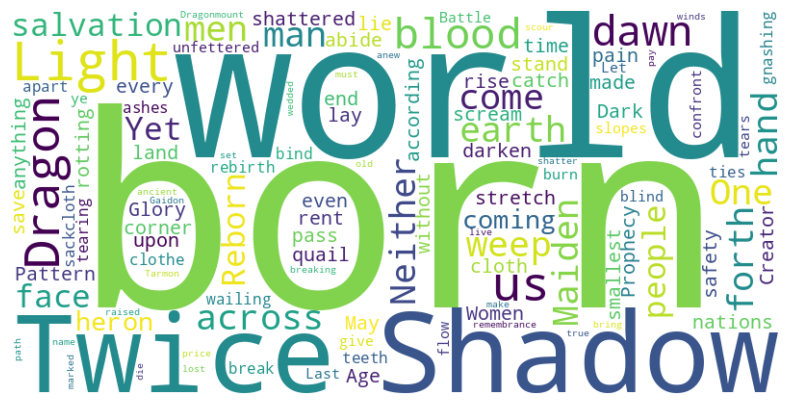
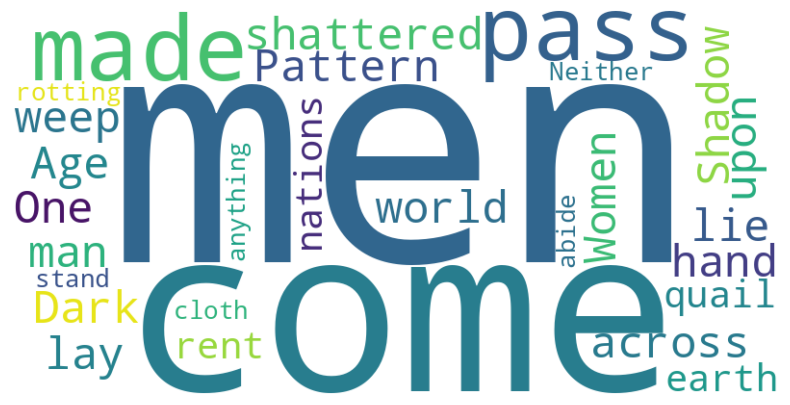
Working on author analysis / moving wordcloud from saved png to encoded message to backend

diff --git a/client/src/components/authorAnalysis/AuthorAnalysis.jsx b/client/src/components/authorAnalysis/AuthorAnalysis.jsx
@@ -3,13 +3,14 @@ import styled from "styled-components";
 import Plot from 'react-plotly.js';
 
 import { ThemeContext } from "../../context/ThemeContext.jsx";
-import { StyledFlexboxContainer, StyledMainButton, StyledTextEntryFlexbox, StyledTextBox, StyledTextField, StyledIcon, StyledFlexbox, StyledDataBox, StyledPlotContainer, StyledIFrame, StyledWordcloud, StyledBodyText } from './AuthorAnalysis.styles';
+import { StyledFlexboxContainer, StyledMainButton, StyledTextEntryFlexbox, StyledTextBox, StyledTextField, StyledIcon, StyledFlexbox, StyledDataBox, StyledPlotContainer, StyledIFrame, StyledWordcloud, StyledTopicButton, StyledBodyText } from './AuthorAnalysis.styles';
 
 function AuthorAnalysis({ transition }) {
   const { theme } = useContext(ThemeContext);
 
   const [expanded, setExpanded] = useState(false);
-  const [showData, setShowData] = useState(true);
+  const [showData, setShowData] = useState(false);
+  const [showTopicGraph, setShowTopicGraph] = useState(false);
 
   const [predictionText, setPredictionText] = useState("");
   const [predictionData, setPredictionData] = useState({
@@ -75,6 +76,10 @@ function AuthorAnalysis({ transition }) {
   function handleChange(e) {
     setPredictionText(e.target.value);
   };
+
+  function toggleTopicGraph() {
+    setShowTopicGraph(prev => !prev);
+  }
 
   async function predict() {
     try {
@@ -142,6 +147,8 @@ function AuthorAnalysis({ transition }) {
             <br/>
             Flesch-Kincaid: {predictionData["metrics"]["fk_score"]}
             <br/>
+            Reading Level: {predictionData["metrics"]["fk_grade"]}
+            <br/>
             <br/>
             Tense: {predictionData["metrics"]["tense"]}
             <br/>
@@ -189,6 +196,11 @@ function AuthorAnalysis({ transition }) {
           />
         </StyledPlotContainer>
         <StyledWordcloud src={predictionData["wordcloud"]}/>
+        <StyledTopicButton theme={theme}>
+          <StyledBodyText>
+            Show Topic Graph
+          </StyledBodyText>
+        </StyledTopicButton>
       </StyledFlexbox>
     </StyledFlexboxContainer>
   )

diff --git a/client/src/components/authorAnalysis/AuthorAnalysis.styles.js b/client/src/components/authorAnalysis/AuthorAnalysis.styles.js
@@ -76,8 +76,8 @@ export const StyledTextBox = styled.div`
   max-width: ${({$expanded}) => $expanded ? "100%" : "0%"};
   transition: max-width 1s ease;
   display: flex;
-  justify-content: center;
-  align-items: center;
+  justify-content: flex-start;
+  align-items: flex-start;
   border-radius: 0px 20px 20px 0px;
   background-color: ${({ theme }) => theme.secondaryColor};
 
@@ -96,9 +96,9 @@ export const StyledTextBox = styled.div`
 
 export const StyledTextField = styled.textarea`
   height: calc(100% - 40px);
-  width: calc(80% - 20px);
-  margin-left: 20%;
-  padding: 20px 20px 20px 0px;
+  width: calc(100% - 110px);
+  margin: 20px 0px 0px 90px;
+  padding: 0xp;
   background: transparent;
   border: none;
   outline: none;
@@ -221,6 +221,21 @@ export const StyledWordcloud = styled.img`
   ${media.desktop`
     width: 40%
   `}
+`
+
+export const StyledTopicButton = styled.button`
+  height: fit-content;
+  width: fit-content;
+  padding: 20px;
+  color: ${({ theme }) => theme.textColor};
+  background-color: ${({ theme }) => theme.primaryColor};
+  border: 3px solid black;
+  border-radius: 20px;
+
+  &:hover {
+  background-color: ${props => props.theme.secondaryColor};
+  box-shadow: 0 0px 10px rgba(255, 255, 255, 0.3);
+  }
 `
 
 export const StyledBodyText = styled.p`

diff --git a/python-server/text_metrics.py b/python-server/text_metrics.py
@@ -8,6 +8,8 @@ from nltk.corpus import stopwords
 from nltk.corpus import cmudict
 from nltk.stem.porter import PorterStemmer
 import spacy
+import io
+import base64
 import matplotlib.pyplot as plt
 from wordcloud import WordCloud
 
@@ -34,12 +36,17 @@ def word_cloud(text):
   plt.imshow(wordcloud, interpolation="bilinear")
   plt.axis("off")
 
-  # Save image
-  curr_dir = os.path.dirname(os.path.abspath(__file__))
-  output_dir = os.path.join(curr_dir, "public/output")
-  file_path = os.path.join(output_dir, "wordcloud.png")
-  plt.savefig(file_path, bbox_inches="tight")
+  # Encode produced plot
+  buffer = io.BytesIO()
+  plt.savefig(buffer, format="png", bbox_inches="tight")
+  buffer.seek(0)
+  encoded_image = base64.b64encode(buffer.read()).decode('utf-8')
+
+  # Close buffer and plot
+  buffer.close()
   plt.close()
+
+  return encoded_image
 
 def metrics(text):
   nltk.download("cmudict", quiet=True)
@@ -203,6 +210,7 @@ def metrics(text):
   return metrics
 
 def calculate_metrics(text):
-  word_cloud(text)
+  text_wordcloud = word_cloud(text)
+  text_metrics = metrics(text)
 
-  return metrics(text)
+  return text_wordcloud, text_metrics

diff --git a/python-server/app.py b/python-server/app.py
@@ -37,11 +37,10 @@ def text_analysis():
   user_text = data["text"]
   response["predicted_authors"] = predict_author(user_text)
   response["predicted_emotions"] = predict_emotion(user_text)
-  response["metrics"] = calculate_metrics(user_text)
-
-  with open('./output/wordcloud.png', 'rb') as image_file:
-    encoded_image = base64.b64encode(image_file.read()).decode('utf-8')
-  response["wordcloud"] = encoded_image
+  
+  text_wordcloud, text_metrics = calculate_metrics(user_text)
+  response["wordcloud"] = text_wordcloud
+  response["metrics"] = text_metrics
 
   return jsonify(response)
 
